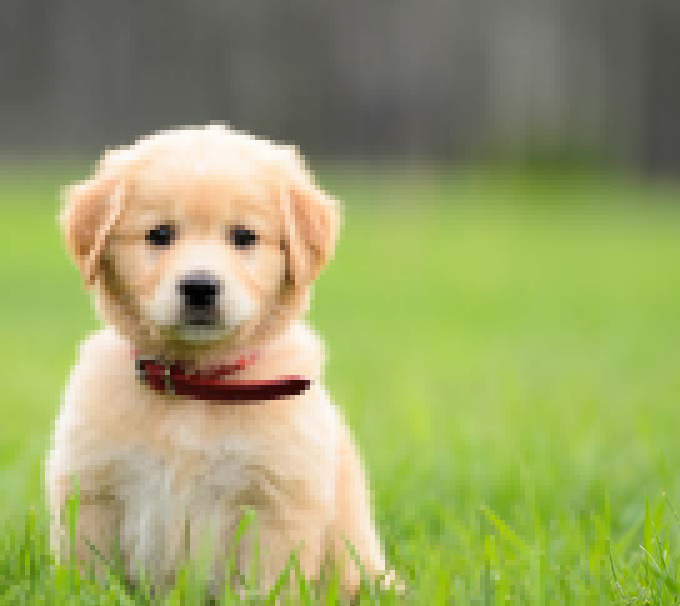
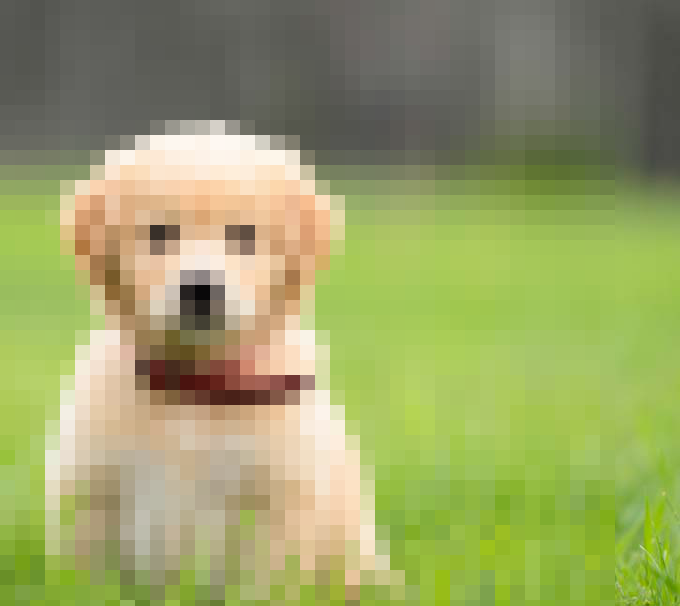
Started working on UI

diff --git a/Pixelate/Main.py b/Pixelate/Main.py
@@ -4,27 +4,80 @@ import Filters as filters
 import copy
 from math import *
 import numpy
+from HelpMenu import *
 
 bit_per_col = 5
 input_root = "Input/"
 output_root = "Output/"
 col_type = "c"
-image_name = "puppy2"
-image_ext = ".jpg"
+image_name = ""
+image_ext = ""
+output_name = ""
 
 # colours_6_bit = []
 #
 #
 #
 
-image = Image.open(input_root+image_name+image_ext)
 
-img_list = imgOps.convert_img_to_list(image)
 
-print ("Converting Image")
-new_img = filters.pixelate(img_list, 5, filters.mean_col)#filters.convert_n_bit_image(img_list, bit_per_col, col_type)
+display_help = True;
 
-imgOps.save_image(new_img, output_root + image_name +"-"+ (str(bit_per_col*3) if col_type == "c" else str(bit_per_col)) + "bit" + ("-gray" if col_type == "g" else "-full"))
-print ("Image Saved")
+while True:
+
+	if display_help:
+		print_controls()
+		display_help = False
+
+	print ("Enter Command...\n")
+	command = raw_input()
+	print ("\n")
+	command_parts = command.split(" ")
+	command_parts[0] = command_parts[0].lower()
+
+	if ((command_parts[0] == "exit") | (command_parts[0] == "quit")):
+		break
+	
+	elif (command_parts[0] == "image"):
+		name_parts = command_parts[1].split(".")
+		image_ext = "." + name_parts[-1]
+		del name_parts[-1]
+		image_name = ".".join(name_parts)
+		output_name = "new_" + image_name
+		print ("Input image set to: " + image_name + image_ext)
+	
+	elif (command_parts[0] == "in_dir"):
+		del command_parts[0]
+		input_root = " ".join(command_parts) + "/"
+		print ("Input directory set to: " + input_root)
+	
+	elif (command_parts[0] == "out_name"):
+		del command_parts[0]
+		output_name = " ".join(command_parts)
+		print("Output name set to: " + output_name)
+	
+	elif (command_parts[0] == "out_dir"):
+		del command_parts[0]
+		output_root = " ".join(command_parts) + "/"
+		print ("Output directory set to: " + output_root)
+
+	elif (command_parts[0] == "pixelate"):
+		if (command_parts[1].lower() == "help"):
+			pixelate_help()
+		else:
+			img_list = imgOps.set_up_image(input_root, image_name, image_ext)
+			print ("Converting Image")
+			new_img = filters.pixelate(img_list, int(command_parts[1]), command_parts[2])
+			imgOps.save_image(new_img, output_root, output_name)
+			print ("Image Saved")
+
+
+
+
+
+#new_img = filters.pixelate(img_list, 15, filters.mean_col)#filters.convert_n_bit_image(img_list, bit_per_col, col_type)
+
+#imgOps.save_image(new_img, output_root + image_name +"-"+ (str(bit_per_col*3) if col_type == "c" else str(bit_per_col)) + "bit" + ("-gray" if col_type == "g" else "-full"))
+
 #
 # print("Program Finished")

diff --git a/Pixelate/HelpMenu.py b/Pixelate/HelpMenu.py
@@ -1,0 +1,13 @@
+def print_controls():
+	print ("Function \t\t Command\t\tExample")
+	print ("----------------------------------------------------")
+	print ("Quit Program \t\t quit or exit")
+	print ("Setting Image \t\t image name.extension \t\t image puppy.jpg")
+	print ("Set Input Directory \t\t in_dir directory_path \t\t in_dir Images")
+	print("\n\n")
+
+def pixelate_help():
+	print ("Input \t\t\t pixelate pixel_size color_selection_method")
+	print ("pixel_size \t\t integer value (ex. 5) \n \t\t\t makes pixel to be that size square (ex. 5x5)")
+	print ("color_selection_method \t max, min, mean_col")
+	print("\n")

diff --git a/Pixelate/ImgOps.py b/Pixelate/ImgOps.py
@@ -3,6 +3,10 @@ import copy
 import colorsys
 from math import *
 
+def set_up_image(input_root, image_name, image_ext):
+    image = Image.open(input_root+image_name+image_ext)
+    img_list = convert_img_to_list(image)
+
 # Convert the passed in image to a list of colours
 def convert_img_to_list(img):
     # Converts to RGB image
